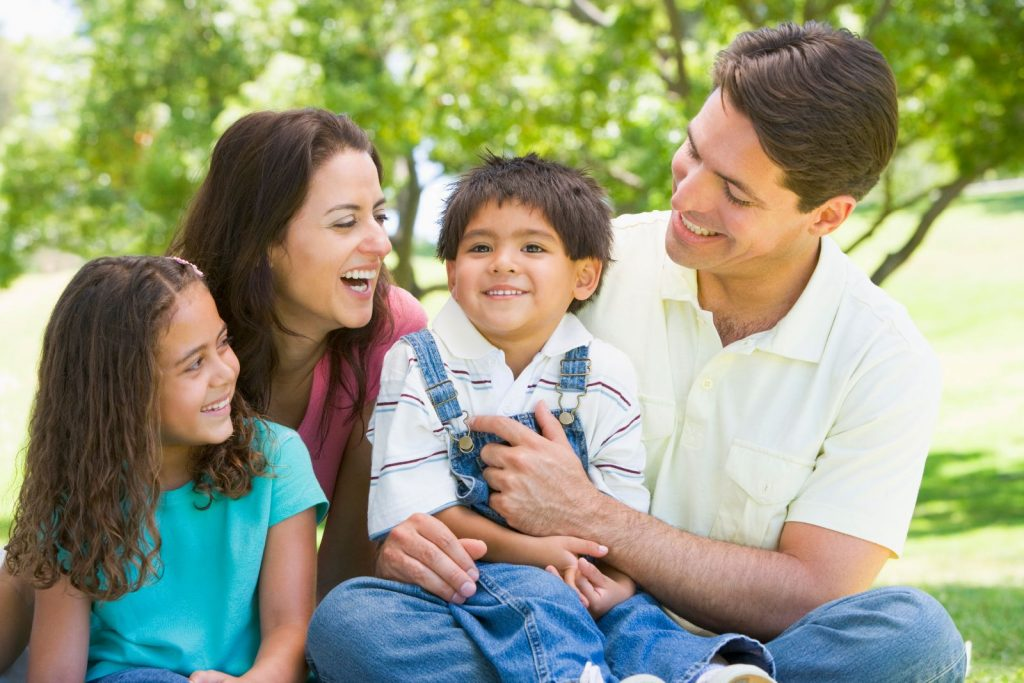
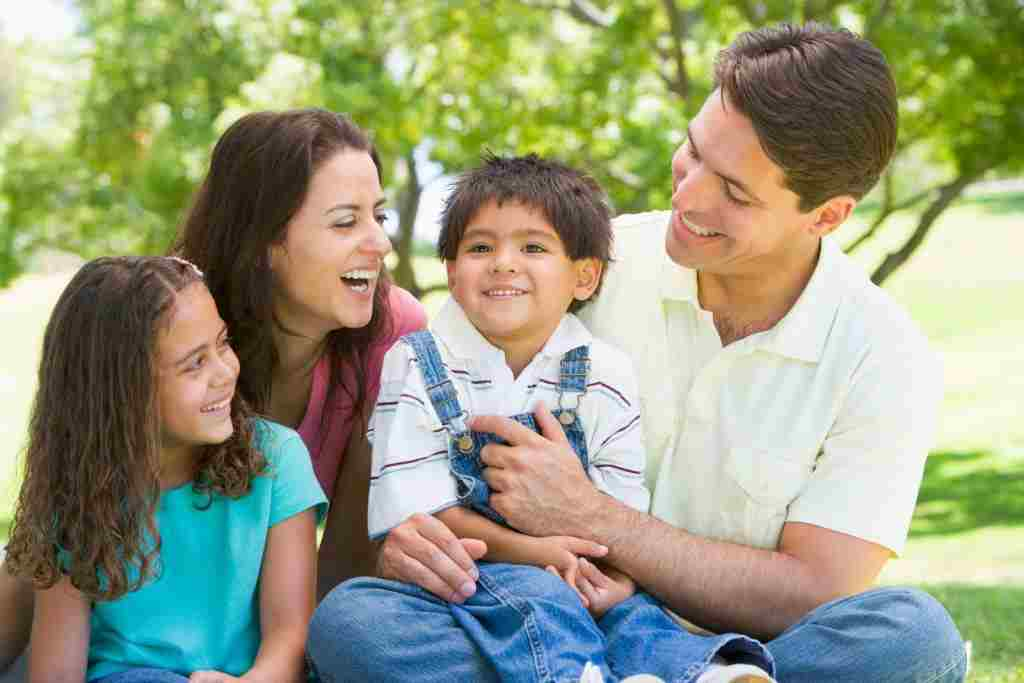
update

diff --git a/weather/preston.html b/weather/preston.html
@@ -9,7 +9,9 @@
     <link rel="stylesheet" href="css_p/large.css">
     <script defer src="/weather/js/date.js"></script>
     <script defer src="/weather/js/menu.js"></script>
-    <script defer src="js/pancake.js"></script>
+    <script defer src="/weather/js/pancake.js"></script>
+    <script defer src="/weather/js/windchill.js"></script>
+
     
     <title>weatherburg</title>
 </head>
@@ -42,11 +44,11 @@
         <h2>Preston</h2>
         <div class="herocontainer">
             <picture class="heroimg">
-                <source media="(max-width: 510px)" srcset="images/wdd230_image_franklinOriginal.jpg">
-                <source media="(max-width: 939px)" srcset="images/wdd230_image_franklinOriginal.jpg">
-                <source media="(min-width: 940px)" srcset="images/wdd230_image_franklinOriginal.jpg">
-                <img src="images/wdd230_image_franklinOriginal.jpg" 
-                     alt="A photo of beautiful eastern Idaho fields and homes.">
+                <source media="(max-width: 510px)" srcset="images/wdd230_image_franklinOriginal (1).jpg">
+                <source media="(max-width: 939px)" srcset="images/wdd230_image_franklinOriginal (1).jpg">
+                <source media="(min-width: 940px)" srcset="images/wdd230_image_franklinOriginal (1).jpg">
+                <img src="images/wdd230_image_franklinOriginal (1).jpg" 
+                     alt="">
             </picture>
 
             
@@ -56,13 +58,20 @@
                 <p class="left">Currently:</p> 
                 <p class="right">Fall</p>
                 <p class="left">Current temp:</p> 
-                <p class="right"><span class="t"></span>°F</p>
+                <p class="right">
+                    <label class="right" for="temp">.</label>
+                    <input type="text" id="temp" name="temp">Fahrenheit</p>
                 <p class="left">Wind Chill:</p> 
-                <p class="right"><span class="f"></span></p>
+                <p class="right"><label for="sum">.</label>
+                    <input type="text" id="sum" name="sum" disabled>Fahrenheit</p>
                 <p class="left">Humidity:</p> 
                 <p class="right">20%</p>
                 <p class="left">Wind Speed:</p> 
-                <p class="right"><span class="s">4</span> mph</p>
+                <p class="right"><label for="speed">.</label>
+                <input type="text" id="speed" name="speed">mph</p>
+                <p><input type="button" id="addNumbers" value="Get wind chill"></p> 
+
+                
             </section>
             
         </div>

diff --git a/weather/js/windchill.js b/weather/js/windchill.js
@@ -1,0 +1,14 @@
+
+
+
+function formula(temperatura, speed) {
+    return 35.74 + 0.6215 * temperatura - 35.75 * Math.pow(speed, 0.16) + 0.4275 * temperatura * Math.pow(speed, 0.16);
+}
+function addnumber() {
+    let addtemperature = parseFloat(document.querySelector("#temp").value);
+    let addspeed = parseFloat(document.querySelector("#speed").value);
+    let result = formula(addtemperature, addspeed);
+
+    document.querySelector("#sum").value = result;
+}
+document.querySelector("#addNumbers").addEventListener("click", addnumber)
